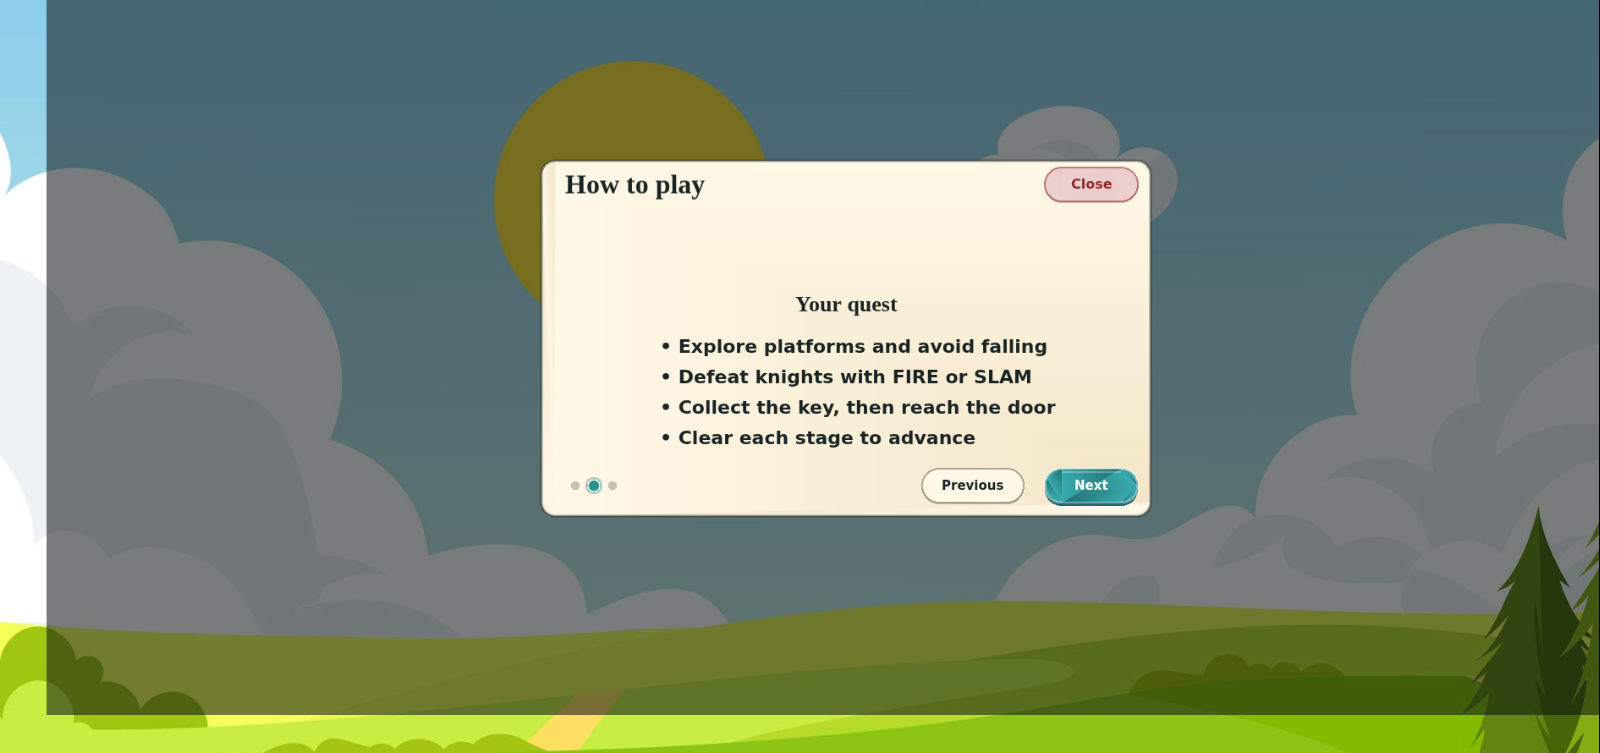
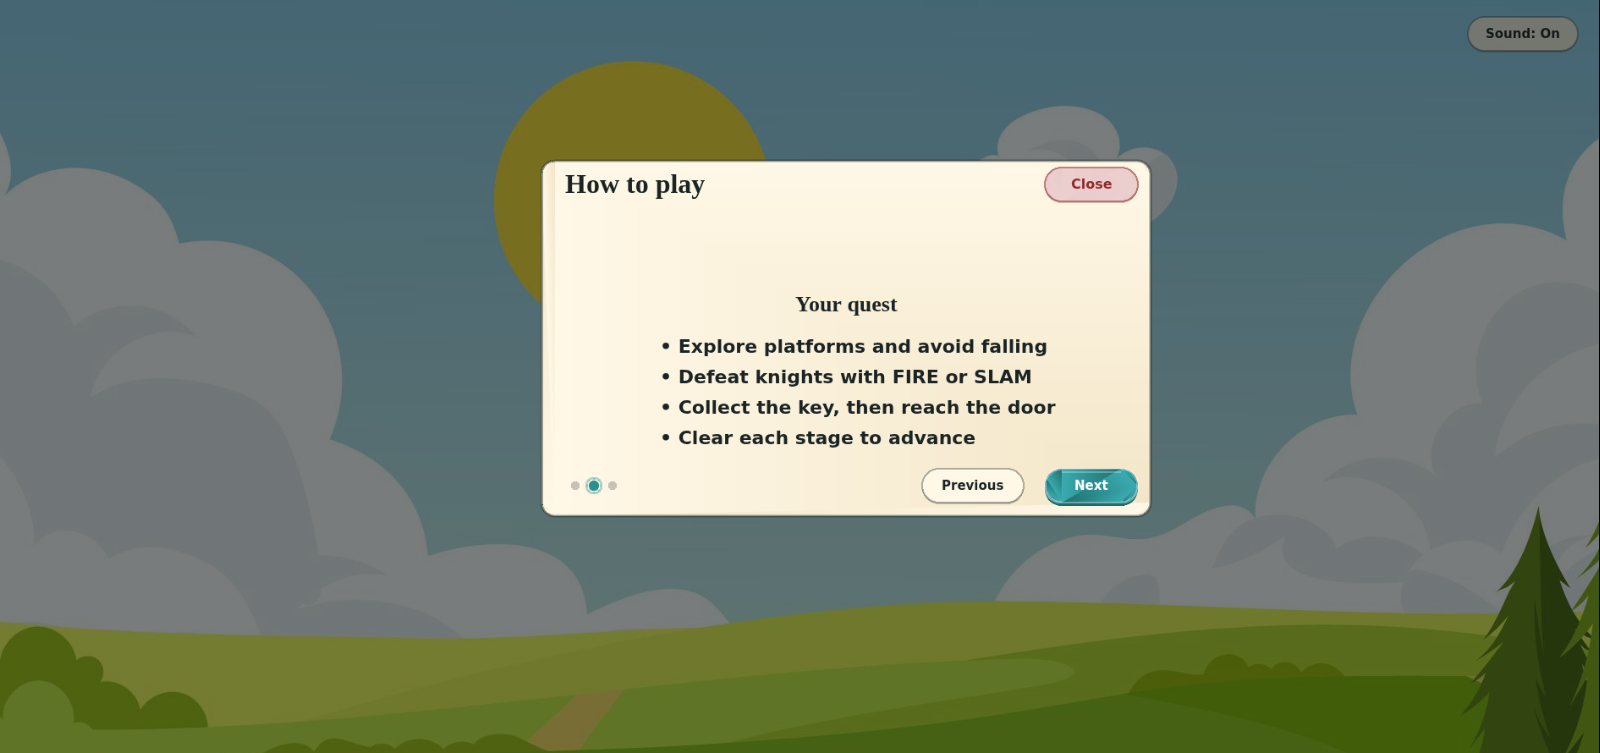
Rewrite README for the current 3-character game, add LICENSE, refresh screenshots
The README predated most of this project's development: it described a
single fire-mage character, had a stale src/ file tree, a flat "3 lives"
claim that no longer holds (lives/HP now vary per character), and combat
wording that didn't match the current hit model (contact alone no longer
damages — only a landed enemy attack does). Rewrote it to cover the 3-hero
roster, accurate controls (including Pause) and combat, an expanded Credits
section (Freepik background, CraftPix character sprites, sfxr.me sound
effects), and a Development section covering local setup and the backtick
debug-overlay toggle.

Added an MIT LICENSE for the code (third-party assets keep their own listed
sources). Regenerated the Main Menu, Gameplay, and Instructions screenshots
(the old ones predated the HUD/mobile-menu redesign) and added a new
Character Select screenshot, since none existed.

Claude-Session: https://claude.ai/code/session_01UJgcAvF9gFWHzFSAcSuYy3

Changed region(s): [[0.0, 0.0, 1.0, 1.0], [0.9062, 0.0, 1.0, 0.0916]]

diff --git a/README.md b/README.md
@@ -1,25 +1,39 @@
 # Mage Hopper
 
-Mage Hopper is a platformer where you hop across floating platforms as a fire mage, blast knights with FIRE bolts and staff SLAM waves, collect the key on each stage, and reach the door before you run out of lives. Clear all 5 levels to win. Playable on desktop and mobile.
+Mage Hopper is a platformer where you pick a hero, hop across floating platforms, take down knights, and race to the key and door on each stage before you run out of lives. Clear all 5 levels to win. Playable on desktop and mobile.
 
 **Play the game [here](https://rschleckser.github.io/mage-hopper/)**
 
-## Instructions
+![Gameplay Screenshot](./img/GamePlay.png)
 
-1. **Start Game**: Click "Start Game" on the main menu to begin, or "Instructions" for an in-game walkthrough of controls, objective, and tips.
+## Features
+
+- **3 playable heroes**, each with a different feel:
+  - **Mage** — Ranged fire magic. Fragile, but hits from anywhere on screen.
+  - **Rogue** — Close-quarters blades. Faster than the others, has to close the distance.
+  - **Knight** — Slow, tough, hits hard. Starts with more lives and HP than the others.
+- **5 hand-built levels**, growing more demanding as you go — the later stages add moving platforms (oscillating and conveyor-style) on top of the standard jump-and-climb layouts.
+- **HP + lives combat** on both sides: enemies take multiple hits to go down, and you only lose a life once your HP for that life runs out — contact alone doesn't hurt you, only a landed enemy swing does, followed by a brief invulnerability window.
+- **Mobile-first UI**: the main menu, character select, pause menu, and end screens all switch to full-viewport layouts on phones instead of shrinking the desktop layout down.
+
+## How to Play
+
+1. **Choose your hero** on the Character Select screen, then **Start Adventure**.
 2. **Controls**:
-   - Move Left: `Left Arrow` or `A`
-   - Move Right: `Right Arrow` or `D`
-   - Jump: `Up Arrow` or `W`
-   - Fire: `F` — shoots a bolt straight ahead
-   - Slam: `E` — a stronger staff-swing wave attack
-   - On mobile/touch devices, on-screen JUMP / FIRE / SLAM buttons and a directional pad appear automatically.
-3. **Defeat Enemies**: Knights patrol the platforms and chase you — take them out with FIRE or SLAM before they touch you.
-4. **Collect the Key**: Find the key on each level, then reach the door to advance.
-5. **Avoid Damage**: Getting touched by an enemy costs a life (3 lives per run, with a brief invulnerability window after each hit).
-6. **Game Over**: Lose all your lives and it's game over — play again or return to the menu.
-7. **Level Win**: Reach the door with the key to advance to the next level (5 levels total).
-8. **Game Win**: Clear all 5 levels to win the game!
+
+   | Action | Keyboard | Touch |
+   | --- | --- | --- |
+   | Move | `←`/`→` or `A`/`D` | On-screen D-pad |
+   | Jump | `↑` or `W` | JUMP button |
+   | Attack | `F` | FIRE button |
+   | Extra Attack | `E` | SLAM button |
+   | Pause | `P` or `Esc` | Pause button |
+
+   Touch controls appear automatically on phones and tablets.
+3. **Fight knights**: they patrol the platforms and chase you down — attacks (not just bumping into them) are what cost you HP, and they take a few hits to defeat.
+4. **Collect the key**, then reach the door to clear the stage and move to the next level.
+5. **Watch your HP and lives**: each hero has their own starting HP and life count (the Knight is the tankiest). Run out of lives and it's game over — play again or return to the menu.
+6. **Clear all 5 levels** to win the game.
 
 ## Screenshots
 
@@ -27,9 +41,9 @@ Mage Hopper is a platformer where you hop across floating platforms as a fire ma
 
 ![Main Menu Screenshot](./img/Main_Menu.png)
 
-### Gameplay
+### Character Select
 
-![Gameplay Screenshot](./img/GamePlay.png)
+![Character Select Screenshot](./img/CharacterSelect.png)
 
 ### In-Game Instructions
 
@@ -40,8 +54,8 @@ Mage Hopper is a platformer where you hop across floating platforms as a fire ma
 ## Technologies Used
 
 - HTML5 / CSS3
-- JavaScript (ES Modules — no build step or bundler required)
-- [Phaser 3](https://phaser.io/) game framework
+- JavaScript (ES Modules — no build step, bundler, or `npm install` required)
+- [Phaser 3](https://phaser.io/) game framework (pinned to 3.80.0 via CDN in `index.html`)
 
 ## Project Structure
 
@@ -49,22 +63,56 @@ The game logic lives under `src/`, organized by responsibility:
 
 ```
 src/
-  entities/       Projectile and slam-wave sprite classes + pools
-  ui/             Reusable pill-button UI kit and DOM overlay helpers
-  scenes/         Menu, Game Over, Level Win, Game Win scenes
-  scenes/game-scene/  Animations, player state machine, enemy AI, combat
-  levels.js       Per-level key/door spawn points and platform layout
-  game-state.js   Shared run state (lives, level, key collected)
-  constants.js    Gameplay tuning values (speeds, hitboxes, etc.)
-  input.js        Touch/mobile control handling
-  main.js         Phaser config and game bootstrap
+  main.js                 Phaser config and game bootstrap
+  characters.js           Per-character stats, animations, and asset config
+  character-select.js     Selected-character state (persists across scenes)
+  game-state.js           Shared run state (lives, HP, level, key collected)
+  constants.js            Gameplay tuning values (speeds, hitboxes, timers)
+  levels.js               Per-level platforms, moving platforms, key/door spawns
+  input.js                Touch/mobile control handling
+  audio.js                Sound effects + mute state
+  rotate-hint.js          Landscape-orientation nudge + canvas scale handling
+  entities/               Projectile and slam-wave sprite classes + pools
+  utils/hitbox.js         Shared facing-direction hitbox helper
+  ui/                     Pill-button UI kit, theme colors, and per-screen DOM
+                          overlays (menu, character select, pause, game over,
+                          level/game win, instructions) used on mobile
+  scenes/
+    menu-scene.js             Main menu
+    character-select-scene.js Hero picker
+    pause-scene.js            Pause menu
+    game-over-scene.js        Game over screen
+    level-win-scene.js        Between-level screen
+    game-win-scene.js         Victory screen
+    game-scene/                The level itself:
+      index.js                   Scene setup, world/collider wiring
+      player-controller.js       Player input + state machine
+      enemy-ai.js                Enemy chase/attack behavior
+      combat.js                  Damage, key/door, death handling
+      animations.js              Animation definitions per character
+      hud.js                     Level/lives badges + HP bar
 ```
 
-`index.html` loads `src/main.js` directly as an ES module — just open it through a local static server (no `npm install` or build required).
+`index.html` loads `src/main.js` directly as an ES module — see **Development** below for how to run it locally.
+
+## Development
+
+No `npm install` or build step — this is plain HTML/CSS/JS. To run it locally, serve the folder with any static file server (opening `index.html` directly via `file://` won't work, since ES modules require a real HTTP origin):
+
+```bash
+python3 -m http.server 8000
+# then open http://localhost:8000
+```
+
+While playing, press the backtick key (`` ` ``) to toggle a debug overlay showing player/enemy speed and Arcade Physics collision boxes — useful when tuning movement or level layouts.
 
 ## Credits
 
-- Created by Richard Schleckser
+- **Code**: Richard Schleckser
+- **Character sprites** (Mage, Rogue, Knight): a free character pack from [CraftPix](https://craftpix.net/)
+- **Background artwork**: [Freepik](https://www.freepik.com/) (Freepik Company S.L.)
+- **Sound effects**: rendered with [sfxr.me](https://sfxr.me/) (public domain / Unlicense)
 
+## License
 
-
+The game's original code (this repo's HTML, CSS, and JavaScript) is licensed under the [MIT License](./LICENSE). Third-party art and audio keep their own sources/licenses as listed under Credits above.
